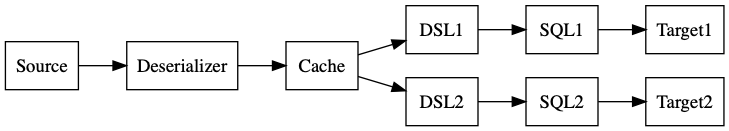
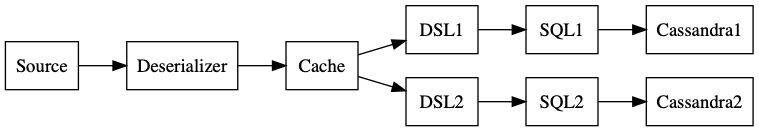
improved example

diff --git a/README.md b/README.md
@@ -42,7 +42,7 @@ sourceData.dsl("uuid$id:StringType
     |    name.lastName$last_name:StringType
     |source_id$source_id:LongType".stripMargin)
 .sql("SELECT *,unix_timestamp() as timestamp from __TABLE__")
-.targetSql("INSERT INTO TABLE output1 SELECT * FROM __TABLE__")
+.targetCassandra("test1","kv1")
     
 sourceData.dsl("uuid$id:StringType
     |code$area_code:LongType
@@ -50,7 +50,7 @@ sourceData.dsl("uuid$id:StringType
     |    phone.number$phone_number:StringType
     |source_id$source_id:LongType".stripMargin)
 .sql("SELECT *,unix_timestamp() as timestamp from __TABLE__")
-.targetSql("INSERT INTO TABLE output2 SELECT * FROM __TABLE__")
+.targetCassandra("test2","kv2")
 
 sourceData.batch
 ```
